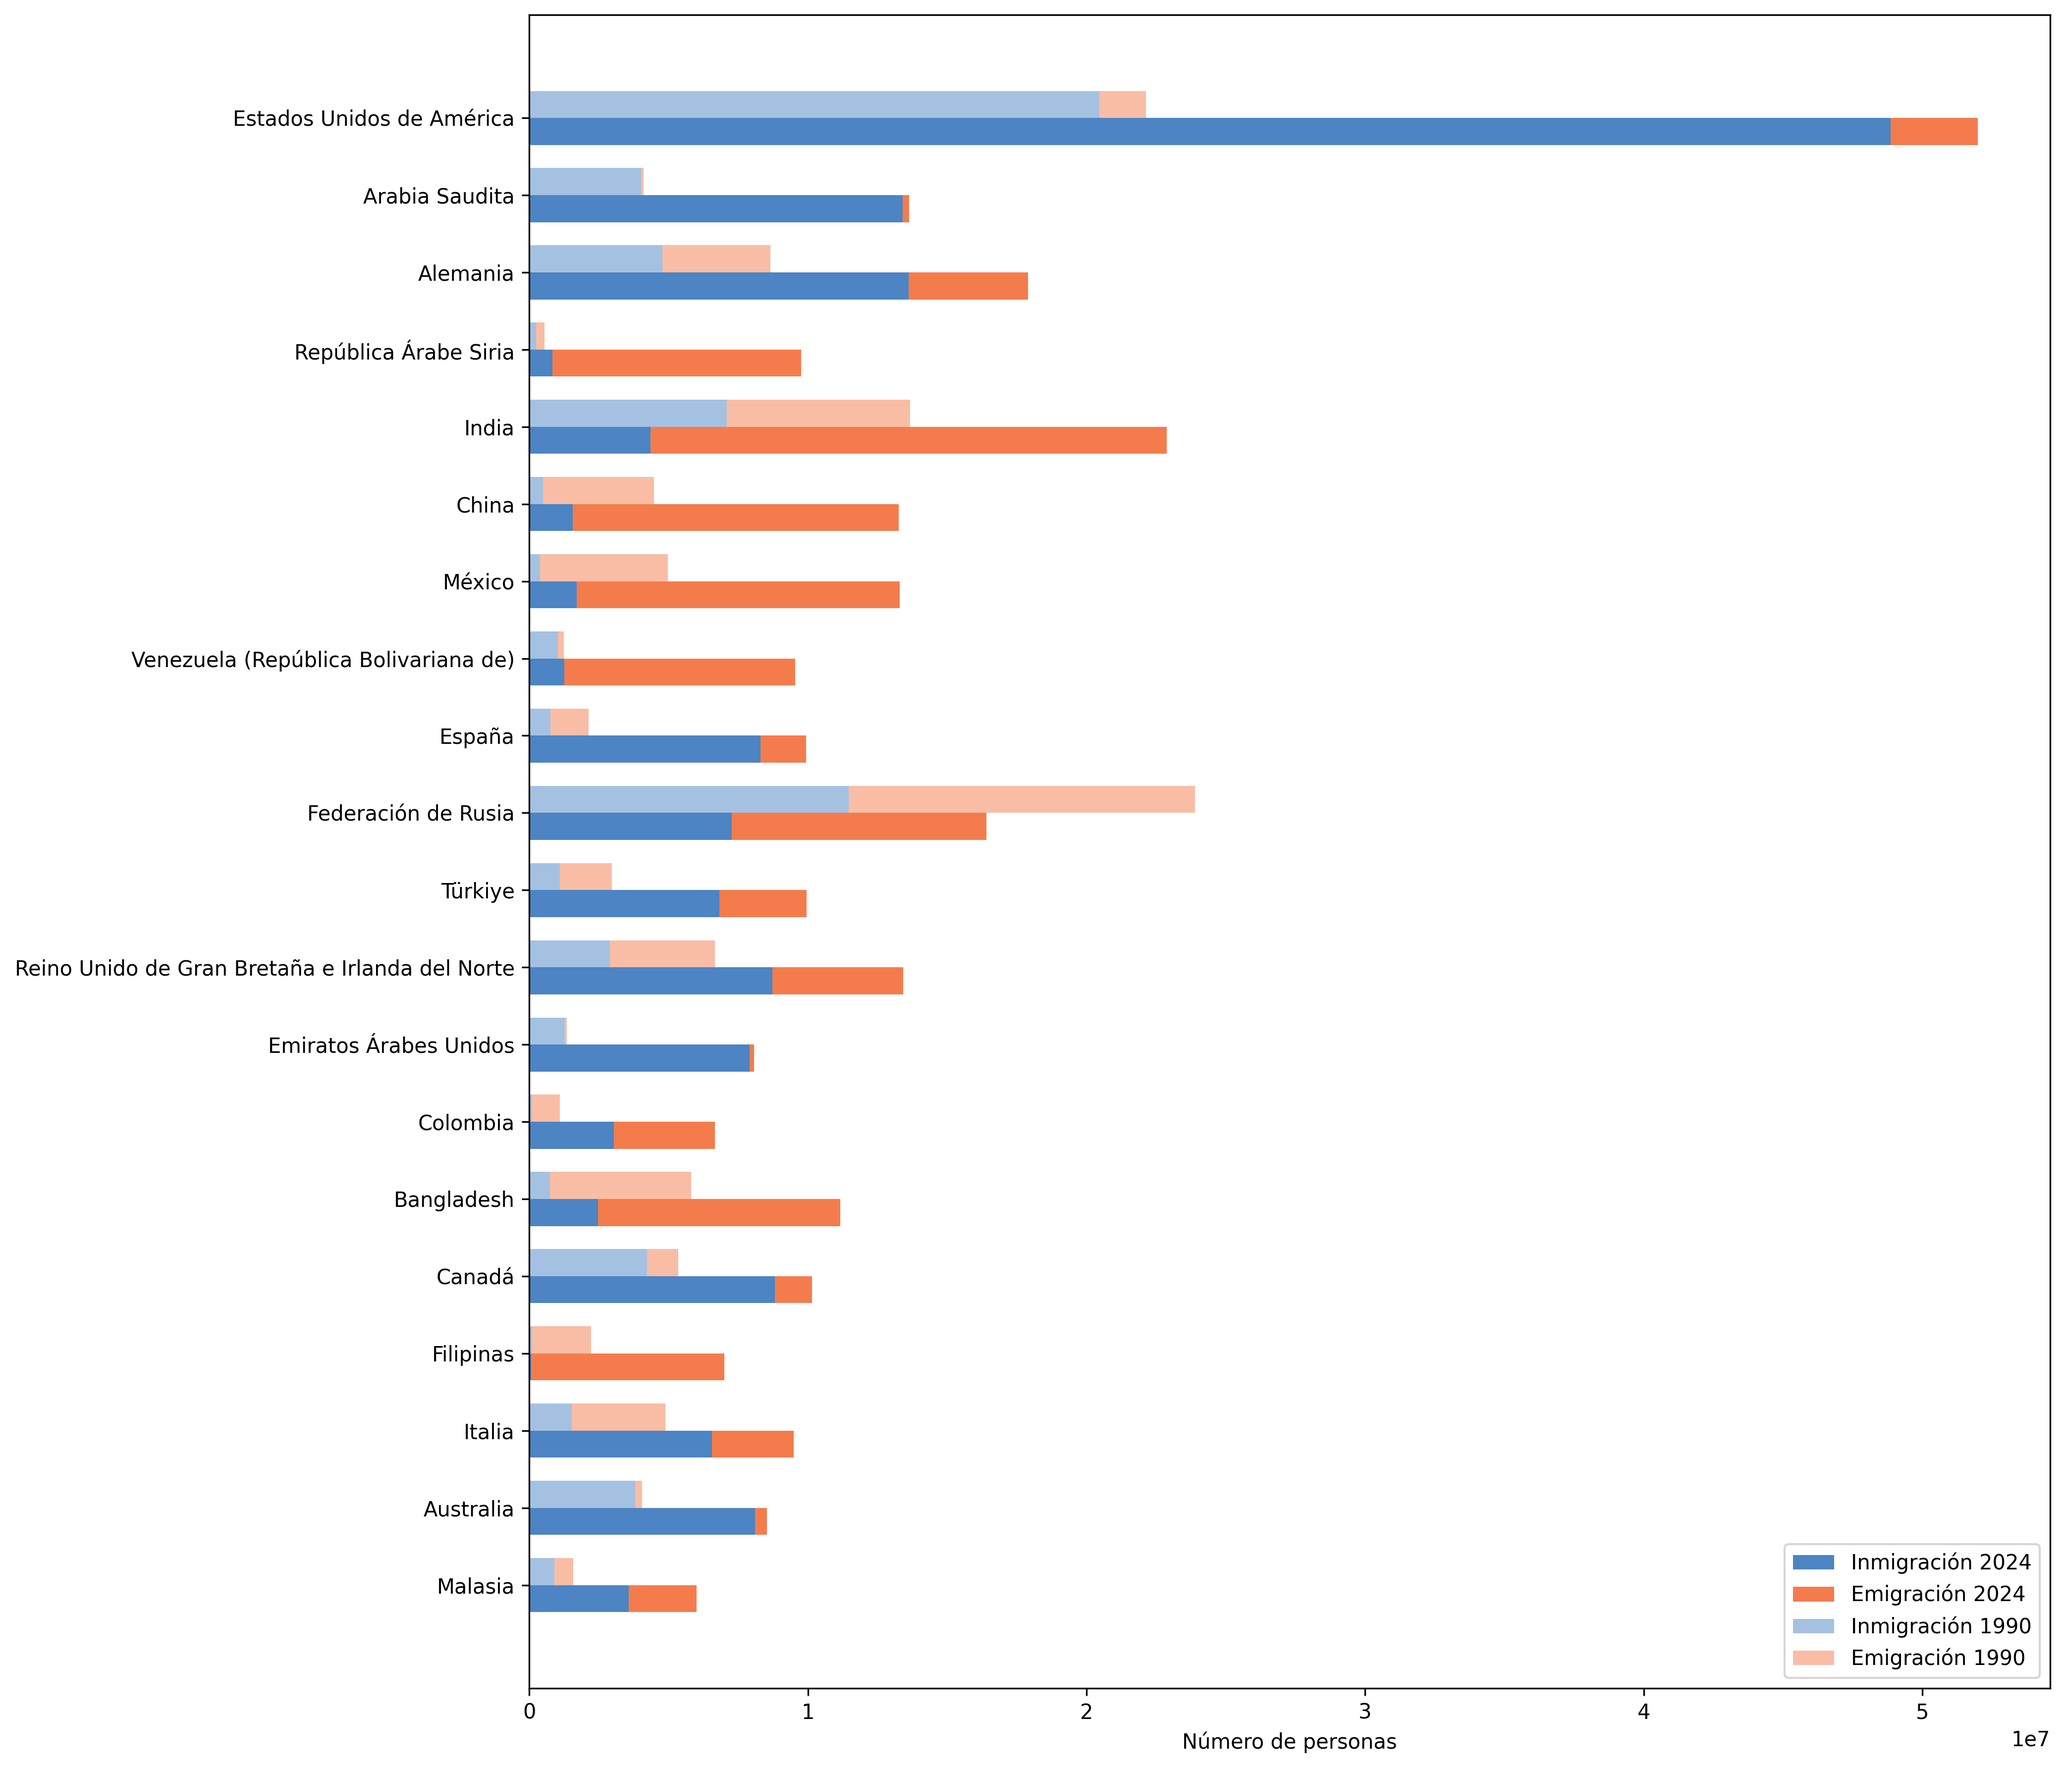
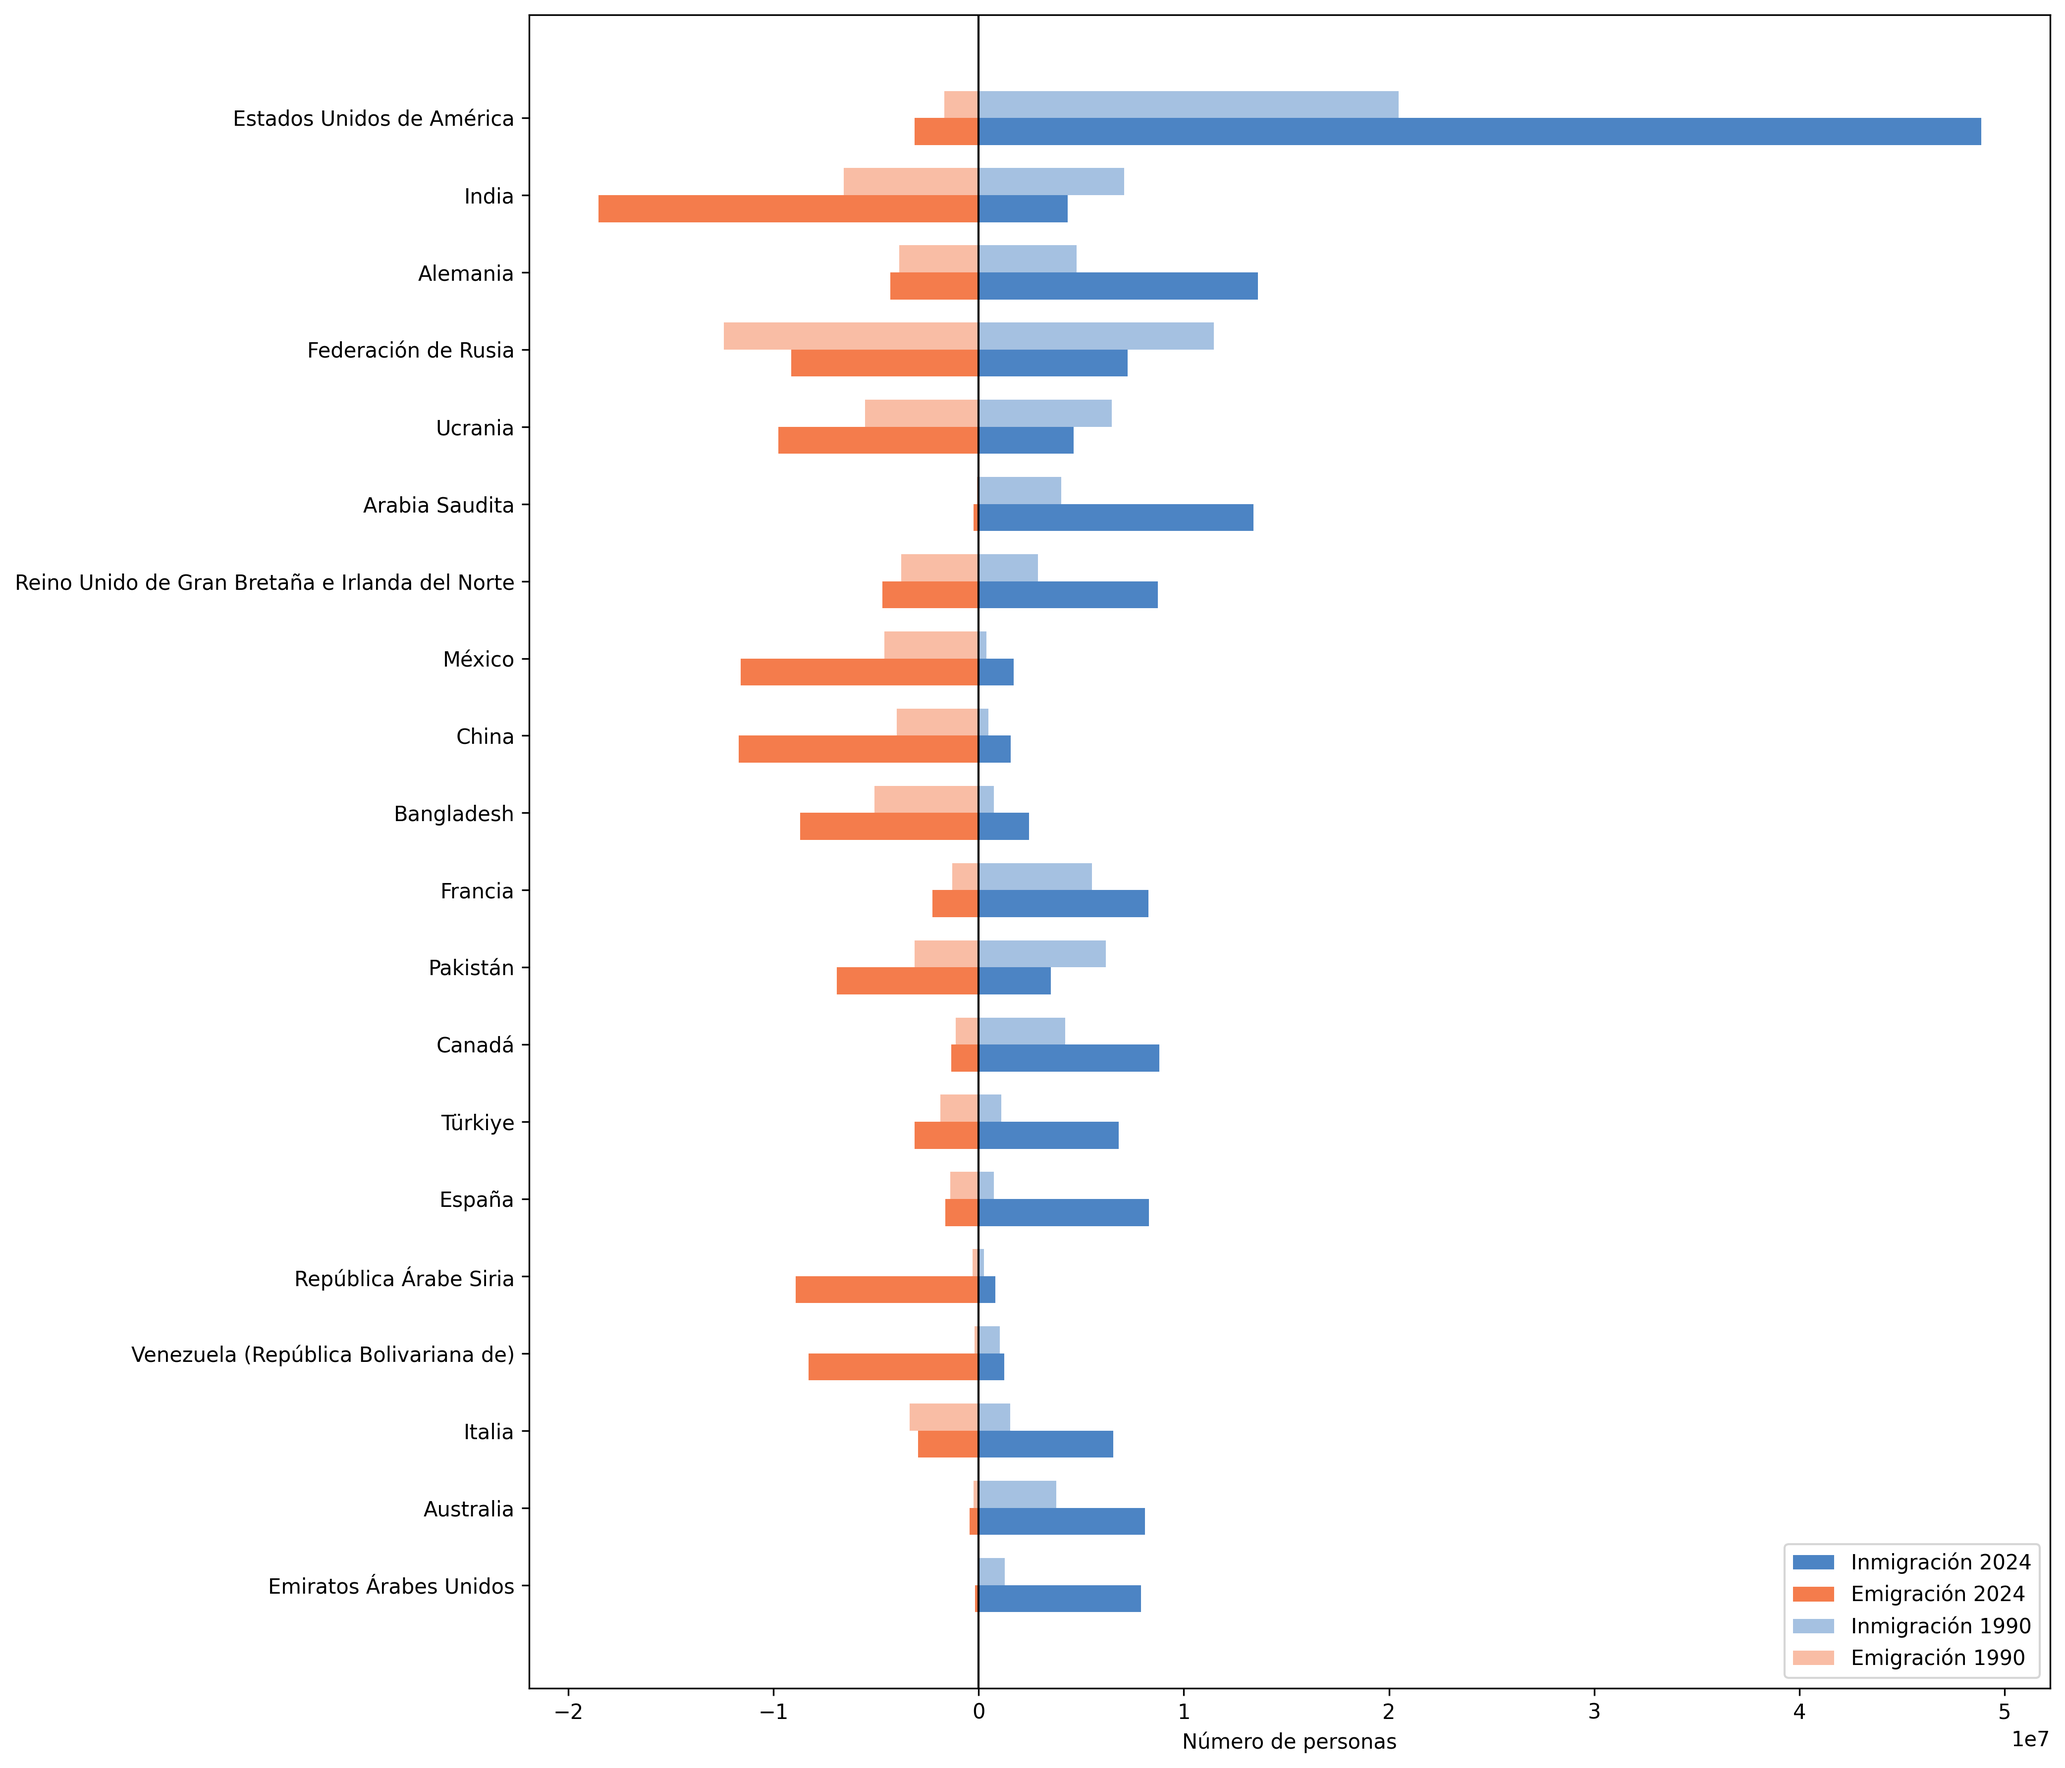
barras centradas

Changed region(s): [[0.156, 0.0311, 0.6862, 0.9328], [0.9045, 0.0622, 0.9669, 0.0933], [0.1248, 0.7462, 0.156, 0.7773]]

diff --git a/inmigracion_emigracion.py b/inmigracion_emigracion.py
@@ -12,7 +12,9 @@ def graficar_top20(diccionario):
 
     for iso3, valores in diccionario.items():
 
-        total_2024 = abs(valores["inmigracion_2024"] + valores["emigracion_2024"]-valores["inmigracion_1990"] - valores["emigracion_1990"])
+        #total_2024 = abs(valores["inmigracion_2024"] + valores["emigracion_2024"]-valores["inmigracion_1990"] - valores["emigracion_1990"])
+        total_2024 = abs(valores["inmigracion_2024"] + valores["emigracion_2024"])
+
 
         datos_lista.append({
             "iso3": iso3,
@@ -49,21 +51,53 @@ def graficar_top20(diccionario):
     # 3) Crear figura
     # ===============================
 
+    # fig, ax = plt.subplots(figsize=(14, 12))
+
+    # # Barras 2024 (arriba)
+    # ax.barh(y + altura/2, inm_2024, height=altura, color="#4C84C4", label="Inmigración 2024")
+    # ax.barh(y + altura/2, emi_2024, height=altura, color="#F47C4C", left=inm_2024, label="Emigración 2024")
+
+    # # Barras 1990 (abajo)
+    # ax.barh(y - altura/2, inm_1990, height=altura, color="#4C84C4", alpha=0.5, label="Inmigración 1990")
+    # ax.barh(y - altura/2, emi_1990, height=altura, color="#F47C4C", alpha=0.5, left=inm_1990, label="Emigración 1990")
+
+    # ax.set_yticks(y)
+    # ax.set_yticklabels(nombres)
+
+    # ax.set_xlabel("Número de personas")
+    # #ax.set_title("Inmigración y Emigración — Top 20 países (1990 y 2024)", fontsize=16)
+
+    # ax.legend(loc="lower right")
+
+    # ax.invert_yaxis()
+
+    # plt.tight_layout()
+
+    # plt.savefig("resultados/top20_inmigracion_emigracion_alt.png", dpi=300, bbox_inches="tight")
+    # print("Gráfico de barras guardado como: resultados/top20_inmigracion_emigracion.png")
+    # plt.show()
+
     fig, ax = plt.subplots(figsize=(14, 12))
 
-    # Barras 2024 (arriba)
-    ax.barh(y + altura/2, inm_2024, height=altura, color="#4C84C4", label="Inmigración 2024")
-    ax.barh(y + altura/2, emi_2024, height=altura, color="#F47C4C", left=inm_2024, label="Emigración 2024")
+    # Emigración negativa (izquierda)
+    emi_2024_neg = [-x for x in emi_2024]
+    emi_1990_neg = [-x for x in emi_1990]
 
-    # Barras 1990 (abajo)
+    # 2024
+    ax.barh(y + altura/2, inm_2024, height=altura, color="#4C84C4", label="Inmigración 2024")
+    ax.barh(y + altura/2, emi_2024_neg, height=altura, color="#F47C4C", label="Emigración 2024")
+
+    # 1990
     ax.barh(y - altura/2, inm_1990, height=altura, color="#4C84C4", alpha=0.5, label="Inmigración 1990")
-    ax.barh(y - altura/2, emi_1990, height=altura, color="#F47C4C", alpha=0.5, left=inm_1990, label="Emigración 1990")
+    ax.barh(y - altura/2, emi_1990_neg, height=altura, color="#F47C4C", alpha=0.5, label="Emigración 1990")
+
+    # línea central
+    ax.axvline(0, color="black", linewidth=1)
 
     ax.set_yticks(y)
     ax.set_yticklabels(nombres)
 
     ax.set_xlabel("Número de personas")
-    #ax.set_title("Inmigración y Emigración — Top 20 países (1990 y 2024)", fontsize=16)
 
     ax.legend(loc="lower right")
 
@@ -72,11 +106,12 @@ def graficar_top20(diccionario):
     plt.tight_layout()
 
     plt.savefig("resultados/top20_inmigracion_emigracion_alt.png", dpi=300, bbox_inches="tight")
-    print("Gráfico de barras guardado como: resultados/top20_inmigracion_emigracion.png")
+    print("Gráfico guardado como: resultados/top20_inmigracion_emigracion_alt2.png")
+
     plt.show()
 
 
-df = pd.read_csv("fuentes-de-datos/migras_90_24.csv")
+df = pd.read_csv("fuentes_de_datos/migras_90_24.csv")
 año = 2024
 
 # ===============================
